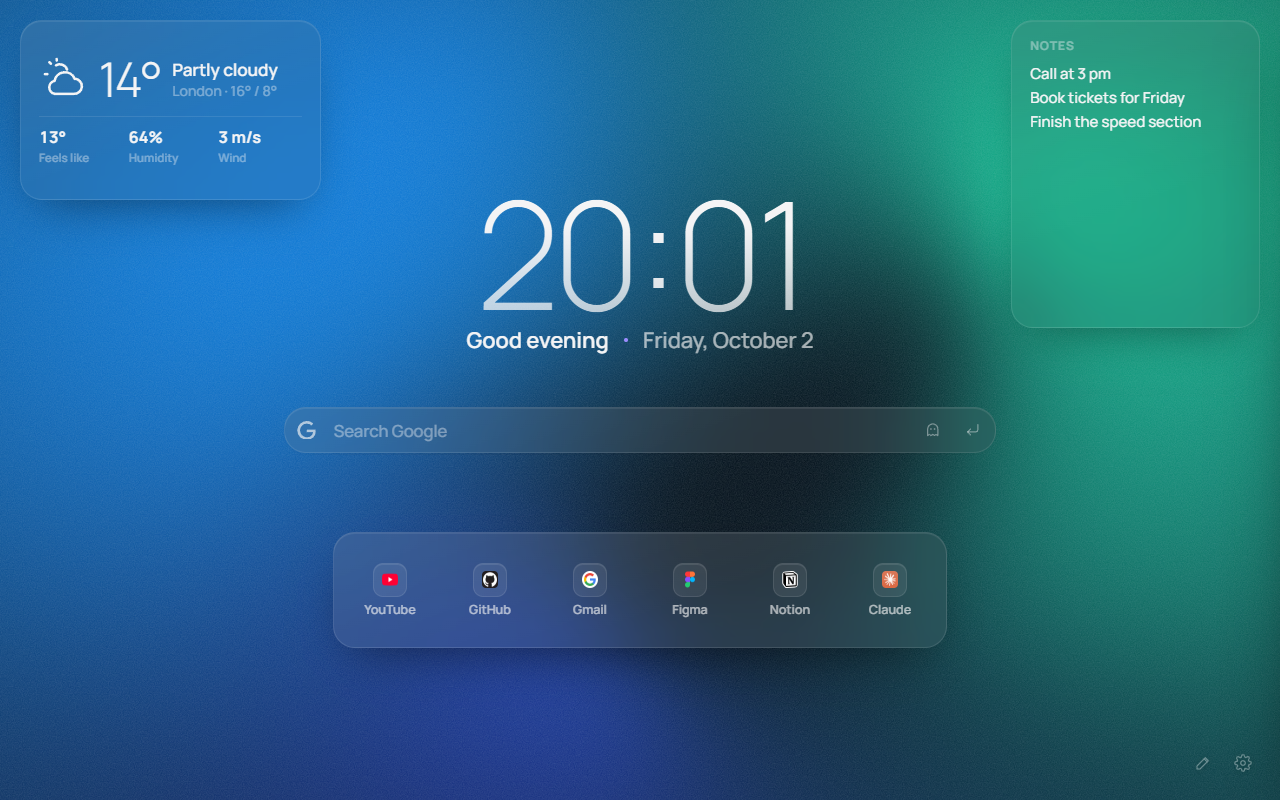
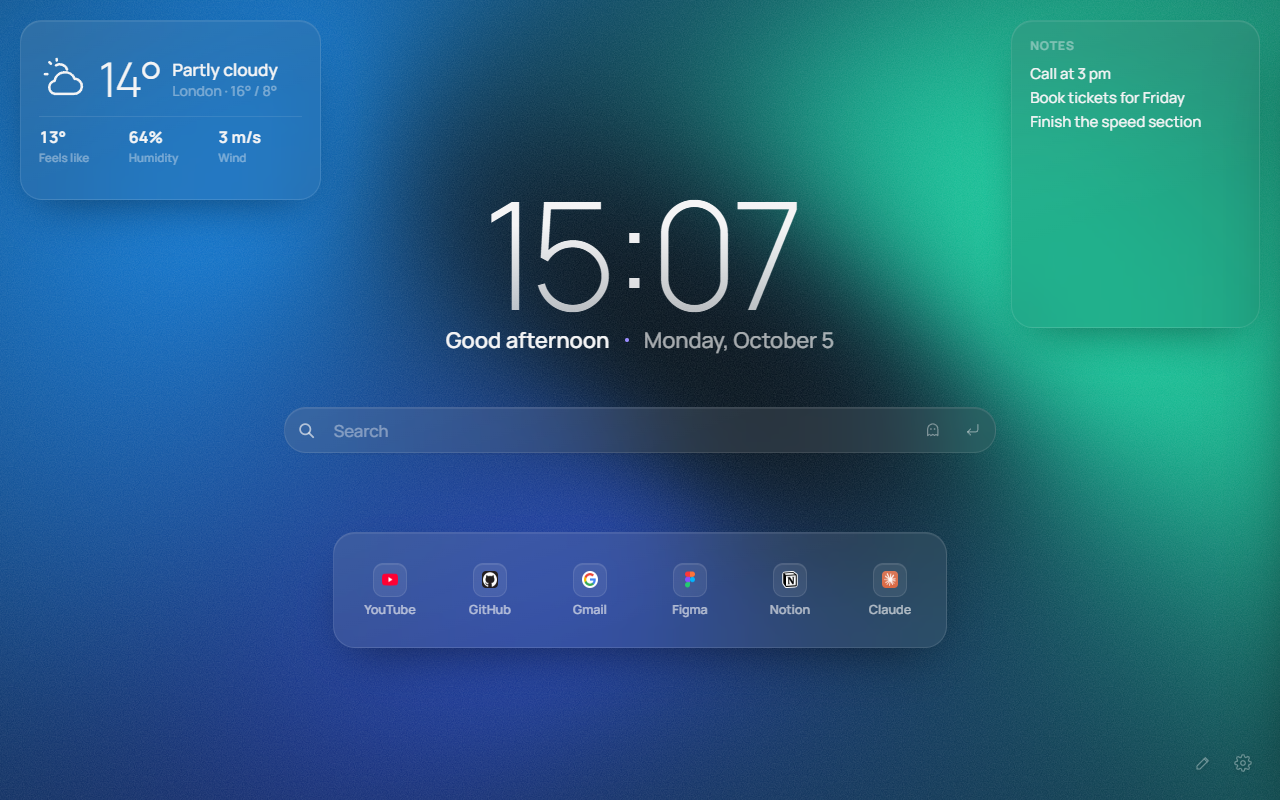
Torii 0.12.4: поиск по умолчанию — поисковиком браузера через chrome.search (отказ CWS «Red Argon»)

diff --git a/plitka/js/widgets.js b/plitka/js/widgets.js
@@ -83,8 +83,10 @@ function weatherInfo(code) {
   return ['Гроза', 'storm'];
 }
 
-// Поисковики; bang — префикс «!x запрос»
+// Поисковики; bang — префикс «!x запрос».
+// browser — поисковик, выбранный в самом браузере (chrome.search.query): по умолчанию, этого требует Chrome Web Store
 const ENGINES = {
+  browser: { name: 'Как в браузере', url: null },
   yandex: { name: 'Яндекс', in: 'Яндексе', bang: 'y', url: 'https://yandex.ru/search/?text=' },
   google: { name: 'Google', bang: 'g', url: 'https://www.google.com/search?q=' },
   duck: { name: 'DuckDuckGo', bang: 'd', url: 'https://duckduckgo.com/?q=' },
@@ -98,6 +100,7 @@ const ENGINES = {
 // иконки — из готовых паков (js/engine-icons.js), заливка currentColor
 const engineIcon = (e) => {
   const k = Object.keys(ENGINES).find(x => ENGINES[x] === e);
+  if (k === 'browser') return '<svg viewBox="0 0 24 24" class="brand-svg brand-browser"><circle cx="10.5" cy="10.5" r="6.5" fill="none" stroke="currentColor" stroke-width="2.2"/><path d="M15.5 15.5L20.5 20.5" stroke="currentColor" stroke-width="2.4" stroke-linecap="round"/></svg>';
   const i = ENGINE_ICONS[k];
   return i ? `<svg viewBox="${i.vb}" class="brand-svg brand-${k}"><path d="${i.d}"/></svg>` : '';
 };
@@ -285,7 +288,7 @@ const Widgets = {
   search: {
     title: 'Поиск',
     size: { w: 10, h: 1 }, min: { w: 4, h: 1 },
-    defaults: { glass: true, engine: 'yandex', height: 'normal', newTab: false, recent: true, showEngine: true, showGhost: true, history: [] },
+    defaults: { glass: true, engine: 'browser', height: 'normal', newTab: false, recent: true, showEngine: true, showGhost: true, history: [] },
     settings: [
       { key: 'engine', label: 'Поисковик', type: 'select', options: Object.entries(ENGINES).map(([k, v]) => [k, v.name]) },
       { key: 'height', label: 'Высота строки', type: 'select', options: [['compact', 'Тонкая'], ['normal', 'Обычная'], ['large', 'Крупная']] },
@@ -296,7 +299,8 @@ const Widgets = {
       GLASS_SETTING,
     ],
     render(body, data, ctx) {
-      const eng = () => ENGINES[data.engine] || ENGINES.yandex;
+      const eng = () => ENGINES[data.engine] || ENGINES.browser;
+      const placeholder = () => eng() === ENGINES.browser ? 'Поиск' : `Искать в ${eng().in || eng().name}`;
       const engineBtn = h('button', { type: 'button', class: 'engine', title: 'Выбрать поисковик' });
       const input = h('input', { type: 'text', class: 'search-input', autocomplete: 'off', spellcheck: 'false', 'data-search': '' });
       const result = h('button', { type: 'button', class: 'search-calc', title: 'Скопировать', hidden: true });
@@ -321,7 +325,7 @@ const Widgets = {
 
       const paint = () => {
         engIco.innerHTML = engineIcon(eng());
-        input.placeholder = `Искать в ${eng().in || eng().name}`;
+        input.placeholder = placeholder();
       };
       paint();
 
@@ -345,6 +349,20 @@ const Widgets = {
         if (how === 'tab') { if (chrome.tabs?.create) chrome.tabs.create({ url }); else window.open(url, '_blank', 'noopener'); return; }
         location.href = url;
       };
+      // поиск поисковиком браузера: через chrome.search.query, адрес поиска знает только браузер.
+      // Инкогнито — пустое приватное окно, и уже в его вкладке поиск (нужно разрешение на приватные окна)
+      const openSearch = (text, how) => {
+        if (!chrome.search?.query) return open(ENGINES.google.url + encodeURIComponent(text), how); // страница открыта не как расширение
+        if (how === 'incognito') {
+          chrome.windows.create({ incognito: true }, (win) => {
+            const tab = !chrome.runtime.lastError && win?.tabs?.[0];
+            if (!tab) return incognitoHelp(() => chrome.search.query({ text, disposition: 'NEW_TAB' }));
+            chrome.search.query({ text, tabId: tab.id }, () => void chrome.runtime.lastError);
+          });
+          return;
+        }
+        chrome.search.query({ text, disposition: how === 'tab' ? 'NEW_TAB' : 'CURRENT_TAB' });
+      };
       let ghost = false; // режим «следующий поиск — в инкогнито» (кнопка-призрак), не сохраняется
       const how = (e) => (e.shiftKey || ghost) ? 'incognito' : (e.ctrlKey || e.metaKey || data.newTab) ? 'tab' : 'here';
       const search = (q, mode) => {
@@ -352,15 +370,16 @@ const Widgets = {
         if (!q) return;
         const asUrl = /^(https?:\/\/)?[\w-]+(\.[\w-]+)+(\/\S*)?$/i.test(q) && !q.includes(' ');
         const { e, text } = parse(q);
-        const target = asUrl ? normalizeUrl(q) : e.url + encodeURIComponent(text);
+        const target = asUrl ? normalizeUrl(q) : e.url ? e.url + encodeURIComponent(text) : null;
+        const run = () => target ? open(target, mode) : openSearch(text, mode);
         closeRecent();
         if (data.recent && mode !== 'incognito') { // инкогнито-запросы не запоминаем
           data.history = [q, ...(data.history || []).filter(x => x !== q)].slice(0, 6);
           // уходим со страницы только после записи — иначе отложенное сохранение не успеет
-          if (mode === 'here') { ctx.saveNow().finally(() => open(target, mode)); return; }
+          if (mode === 'here') { ctx.saveNow().finally(run); return; }
           ctx.save();
         }
-        open(target, mode);
+        run();
         if (mode !== 'here') { input.value = ''; onInput(); }
       };
 
@@ -384,7 +403,7 @@ const Widgets = {
         ghost = !ghost;
         ghostBtn.classList.toggle('on', ghost);
         form.classList.toggle('ghost', ghost);
-        input.placeholder = ghost ? 'Инкогнито — следующий поиск' : `Искать в ${eng().in || eng().name}`;
+        input.placeholder = ghost ? 'Инкогнито — следующий поиск' : placeholder();
         input.focus();
       });
 
@@ -440,7 +459,7 @@ const Widgets = {
           Object.entries(ENGINES).map(([k, e]) => h('button', {
             type: 'button', class: 'em-item' + (k === data.engine ? ' active' : ''),
             onclick: () => { data.engine = k; ctx.save(); paint(); onInput(); menu.remove(); input.focus(); },
-          }, h('span', { class: 'em-ico', html: engineIcon(e) }), h('span', { class: 'em-name' }, e.name), h('kbd', {}, '!' + e.bang))),
+          }, h('span', { class: 'em-ico', html: engineIcon(e) }), h('span', { class: 'em-name' }, e.name), ...(e.bang ? [h('kbd', {}, '!' + e.bang)] : []))),
           h('div', { class: 'em-hint' }, 'Префикс — разовый поиск: «!yt котики»'));
         document.body.append(menu);
         flipUp(menu, engineBtn);
@@ -797,7 +816,7 @@ function pickGreeting(s, d = new Date()) {
 
 // Карточка «разреши приватные окна»: включить это за пользователя расширение не может — только подвести к переключателю.
 // Chromium (Chrome, Edge, Яндекс…) — кнопка открывает страницу настроек Torii; Firefox свои служебные страницы
-// расширениям открывать не даёт — там подсказываем путь словами. url — что искали: можно открыть в обычной вкладке.
+// расширениям открывать не даёт — там подсказываем путь словами. url — что искали (или функция, которая откроет): можно открыть в обычной вкладке.
 const IS_FIREFOX = /Firefox\//.test(navigator.userAgent);
 function incognitoHelp(url) {
   document.querySelector('.incog-help')?.remove();
@@ -811,7 +830,7 @@ function incognitoHelp(url) {
         : h('span', {}, 'Открою настройки расширения — там включи «Разрешить в режиме инкогнито». Потом нажми поиск ещё раз.')),
     h('div', { class: 'ih-actions' },
       IS_FIREFOX ? null : h('button', { type: 'button', class: 'pill small pill-accent', onclick: () => { chrome.tabs?.create({ url: `chrome://extensions/?id=${chrome.runtime.id}` }); close(); } }, 'Открыть настройки'),
-      url ? h('button', { type: 'button', class: 'pill small', onclick: () => { chrome.tabs?.create ? chrome.tabs.create({ url }) : window.open(url, '_blank', 'noopener'); close(); } }, 'Открыть в обычной вкладке') : null,
+      url ? h('button', { type: 'button', class: 'pill small', onclick: () => { typeof url === 'function' ? url() : chrome.tabs?.create ? chrome.tabs.create({ url }) : window.open(url, '_blank', 'noopener'); close(); } }, 'Открыть в обычной вкладке') : null,
       h('button', { type: 'button', class: 'icon-btn ih-close', title: 'Закрыть', onclick: close }, '✕')));
   document.body.append(card);
   requestAnimationFrame(() => card.classList.add('on'));

diff --git a/plitka/js/i18n.js b/plitka/js/i18n.js
@@ -91,7 +91,7 @@ const I18N = (() => {
     'Места нет — освободи немного': 'No room — free up some space', 'Окно слишком узкое — растяни его, чтобы двигать блоки': 'Window is too narrow — widen it to move blocks',
     'Время': 'Time', 'Дела': 'Tasks', 'Навигация': 'Navigation', 'Информация': 'Info', 'Настроение': 'Mood',
     // виджеты: названия и описания
-    'Поиск': 'Search', 'Ссылки': 'Links', 'Заметки': 'Notes', 'Погода': 'Weather', 'Список дел': 'To-do', 'Частые сайты': 'Top sites',
+    'Поиск': 'Search', 'Как в браузере': 'Browser default', 'Ссылки': 'Links', 'Заметки': 'Notes', 'Погода': 'Weather', 'Список дел': 'To-do', 'Частые сайты': 'Top sites',
     'Недавно закрытые': 'Recently closed', 'Курсы ЦБ': 'Exchange rates', 'Обратный отсчёт': 'Countdown', 'Привычки': 'Habits', 'Цитата': 'Quote',
     'Слово дня': 'Word of the day', 'Картинка': 'Picture', 'Панель закладок': 'Bookmarks bar',
     'Цифровые или стрелочные, приветствие': 'Digital or analog, with greeting', 'Фокус и перерывы по таймеру': 'Focus and breaks on a timer',

diff --git a/store/listing-ru.md b/store/listing-ru.md
@@ -19,7 +19,7 @@ Torii превращает новую вкладку в твою личную п
 
 ВИДЖЕТЫ
 • Часы — цифровые или стрелочные, с приветствием и датой
-• Поиск — 9 поисковиков и ИИ-ассистентов на выбор, быстрые префиксы для разового поиска в другом, калькулятор прямо в строке, поиск в инкогнито по Shift+Enter
+• Поиск — поисковиком, выбранным в браузере (или другим на твой выбор), быстрые префиксы для разового поиска в другом, калькулятор прямо в строке, поиск в инкогнито по Shift+Enter
 • Ссылки и частые сайты — плитками или списком, с иконками сайтов
 • Панель закладок — твоя строка закладок прямо на вкладке
 • Погода — сейчас, подробно, по часам или на неделю
@@ -53,6 +53,7 @@ Torii заменяет страницу новой вкладки настраи
 
 **Обоснование разрешений:**
 - `storage` — хранит настройки, виджеты и их расположение в браузере пользователя.
+- `search` — строка поиска на вкладке ищет поисковиком, выбранным в браузере, через Chrome Search API (`chrome.search.query`); настройки поиска браузера расширение не меняет.
 - `unlimitedStorage` — своя картинка-фон и картинки слайд-шоу весят мегабайты и не помещаются в стандартный лимит хранилища.
 - `topSites` (необязательное) — виджет «Частые сайты» показывает сайты, которые пользователь посещает чаще всего. Запрашивается только при добавлении этого виджета.
 - `sessions` (необязательное) — виджет «Недавно закрытые» показывает и восстанавливает недавно закрытые вкладки. Запрашивается только при добавлении этого виджета.

diff --git a/store/listing-en.md b/store/listing-en.md
@@ -18,7 +18,7 @@ What sets Torii apart from other new tab pages: widgets aren't stuck in a single
 
 WIDGETS
 • Clock — digital or analog, with a greeting and the date
-• Search — 9 search engines and AI assistants to choose from, quick prefixes for a one-off search elsewhere, a calculator right in the search bar, Shift+Enter to search in incognito
+• Search — uses your browser's default search engine (or another one you pick), quick prefixes for a one-off search elsewhere, a calculator right in the search bar, Shift+Enter to search in incognito
 • Links and Top sites — as tiles or a list, with site icons
 • Bookmarks bar — your bookmarks right on the new tab
 • Weather — now, details, hourly or for the week
@@ -51,6 +51,7 @@ Torii replaces the new tab page with a customizable dashboard of widgets (clock,
 
 **Permission justifications:**
 - `storage` — stores settings, widgets and their layout in the user's browser.
+- `search` — the search bar on the new tab searches with the user's default search engine via the Chrome Search API (`chrome.search.query`); the extension does not change the browser's search settings.
 - `unlimitedStorage` — a custom background image and slideshow images take several megabytes and don't fit the default storage quota.
 - `topSites` (optional) — the "Top sites" widget shows the user's most visited sites. Requested only when this widget is added.
 - `sessions` (optional) — the "Recently closed" widget lists and restores recently closed tabs. Requested only when this widget is added.

diff --git a/CHANGELOG.md b/CHANGELOG.md
@@ -4,6 +4,9 @@
 Минор — заметный этап (новая большая возможность или пачка), патч — только починки. `1.0.0` — первый релиз в Chrome Web Store.
 Версия живёт в `plitka/manifest.json` (её видно в панели настроек) и `package.json`.
 
+## 0.12.4
+- Поиск по умолчанию — «Как в браузере»: запрос уходит поисковику, выбранному в настройках браузера (Chrome Search API, разрешение `search`). Другие поисковики и префиксы остаются — по выбору. Требование Chrome Web Store: новая вкладка не должна подменять поисковик.
+
 ## 0.12.3
 - Описание в магазине и подпись «Поиска» в меню виджетов — без перечисления брендов поисковиков (Chrome Web Store отклонил как «злоупотребление ключевыми словами»).
 
